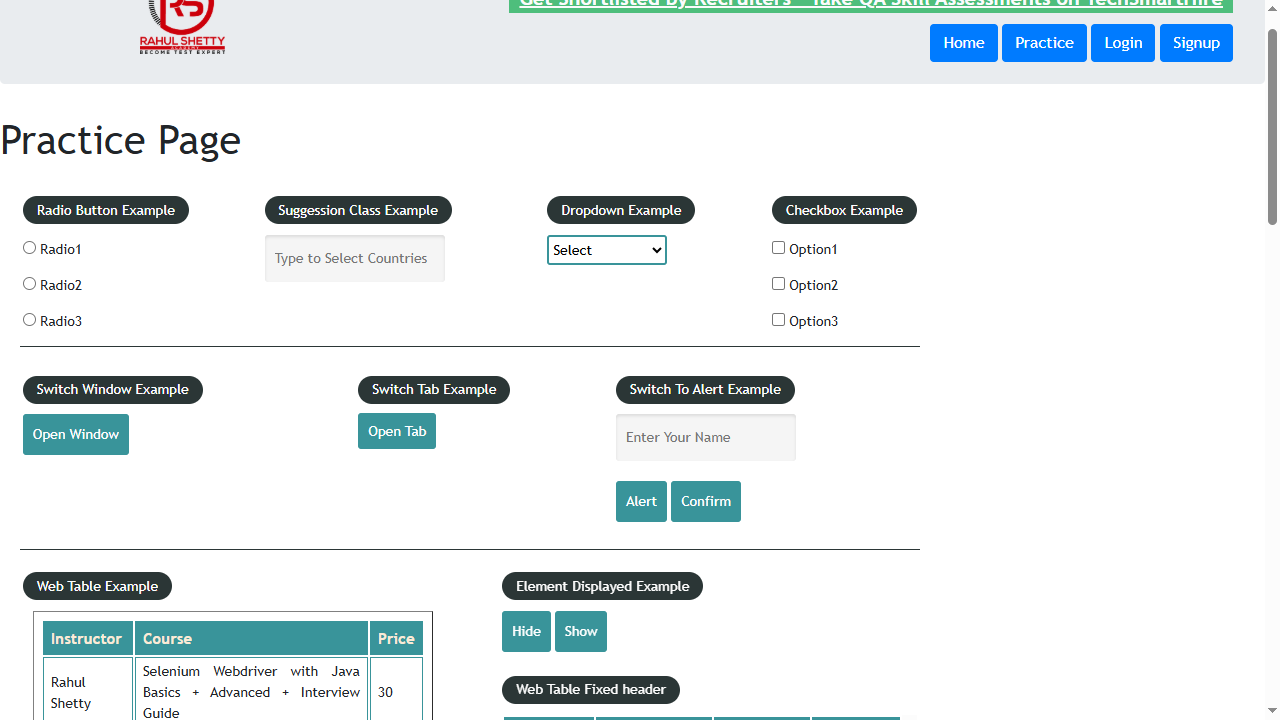
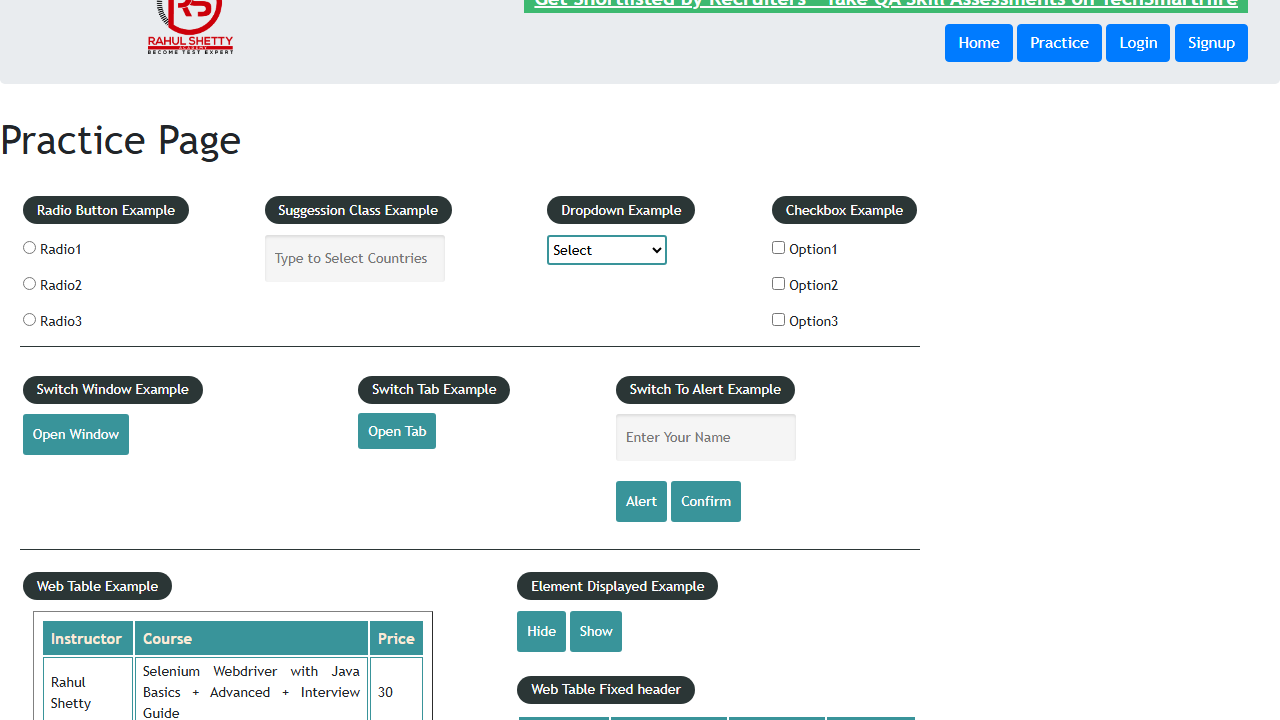
added dashboard

diff --git a/dashboard/index.html b/dashboard/index.html
@@ -1,0 +1,52 @@
+<!DOCTYPE html>
+<html>
+
+<head>
+    <title>Playwright Dashboard</title>
+    <link rel="stylesheet" href="style.css">
+</head>
+
+<body>
+
+<h1>🚀 Playwright Automation Dashboard</h1>
+
+<div class="card">
+    <h2>Status</h2>
+    <h3 id="status">Loading...</h3>
+</div>
+
+<div class="card">
+    <h2>Passed</h2>
+    <h3 id="passed">0</h3>
+</div>
+
+<div class="card">
+    <h2>Failed</h2>
+    <h3 id="failed">0</h3>
+</div>
+
+<div class="card">
+    <h2>Skipped</h2>
+    <h3 id="skipped">0</h3>
+</div>
+
+<div class="card">
+    <h2>Duration</h2>
+    <h3 id="duration">Loading...</h3>
+</div>
+
+<div class="card">
+    <h2>Branch</h2>
+    <h3 id="branch">Loading...</h3>
+</div>
+
+<div class="card">
+    <h2>Run</h2>
+    <h3 id="run">Loading...</h3>
+</div>
+
+<script src="app.js"></script>
+
+</body>
+
+</html>

diff --git a/scripts/generateDashboard.js b/scripts/generateDashboard.js
@@ -1,0 +1,27 @@
+const fs = require("fs");
+
+// Read Playwright JSON report
+const report = JSON.parse(
+  fs.readFileSync("playwright-report/results.json", "utf8")
+);
+
+const stats = report.stats;
+
+const dashboard = {
+  status: stats.unexpected > 0 ? "FAILED" : "SUCCESS",
+  passed: stats.expected,
+  failed: stats.unexpected,
+  skipped: stats.skipped,
+  duration: (stats.duration / 1000).toFixed(2) + " sec",
+  branch: process.env.GITHUB_REF_NAME || "local",
+  run: process.env.GITHUB_RUN_NUMBER || "Local"
+};
+
+// Write dashboard JSON
+fs.writeFileSync(
+  "dashboard/results.json",
+  JSON.stringify(dashboard, null, 2)
+);
+
+console.log("✅ Dashboard JSON generated successfully!");
+console.log(dashboard);

diff --git a/dashboard/app.js b/dashboard/app.js
@@ -1,0 +1,19 @@
+fetch("results.json")
+    .then(response => response.json())
+    .then(data => {
+
+        document.getElementById("status").innerHTML = data.status;
+
+        document.getElementById("passed").innerHTML = data.passed;
+
+        document.getElementById("failed").innerHTML = data.failed;
+
+        document.getElementById("skipped").innerHTML = data.skipped;
+
+        document.getElementById("duration").innerHTML = data.duration;
+
+        document.getElementById("branch").innerHTML = data.branch;
+
+        document.getElementById("run").innerHTML = data.run;
+
+    });

diff --git a/playwright.config.js b/playwright.config.js
@@ -10,7 +10,10 @@ const config = ({
   expect: {
     timeout: 50 * 1000,
   },
-   reporter: 'html',
+   reporter: [
+  ['html'],
+  ['json', { outputFile: 'playwright-report/results.json' }]
+],
   /* Shared settings for all the projects below. See https://playwright.dev/docs/api/class-testoptions. */
   use: {
     browserName: 'chromium',

diff --git a/dashboard/style.css b/dashboard/style.css
@@ -1,0 +1,19 @@
+body{
+    font-family:Arial;
+    background:#f5f5f5;
+    text-align:center;
+}
+
+.card{
+    display:inline-block;
+    width:220px;
+    margin:20px;
+    padding:20px;
+    background:white;
+    border-radius:10px;
+    box-shadow:0px 2px 10px gray;
+}
+
+h1{
+    margin-top:40px;
+}
